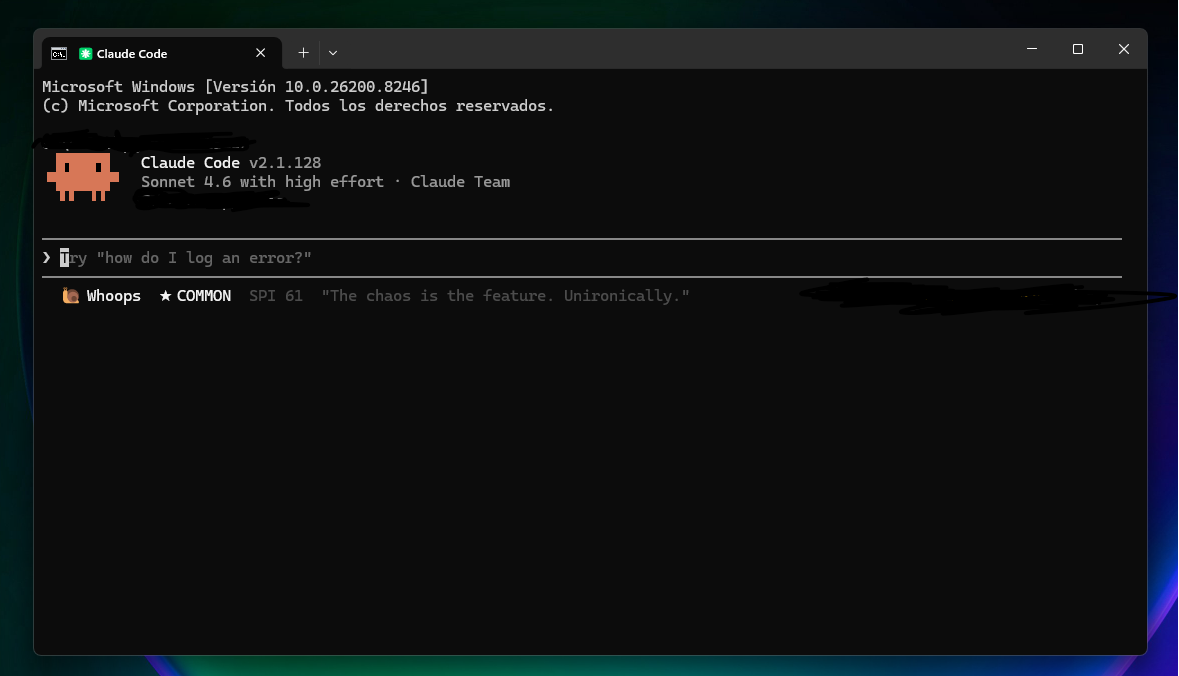
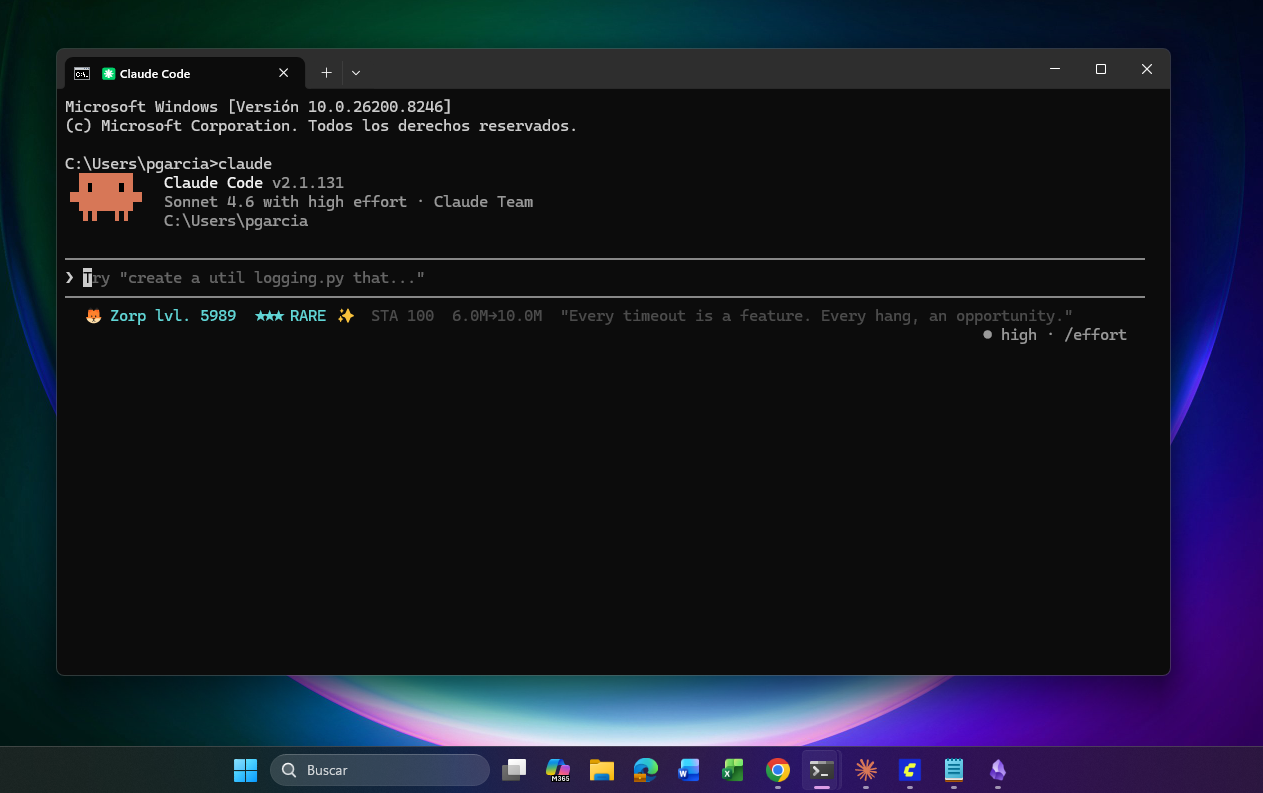
Update screenshots: status bar with lvl, add /buddy card screenshot

Changed region(s): [[0.0, 0.0, 1.0, 1.0]]

diff --git a/README.md b/README.md
@@ -94,6 +94,8 @@ No network calls. No external dependencies. Pure Python stdlib.
 
 ## The card (via `/buddy`)
 
+![/buddy card](screenshot-card.png)
+
 ```
 ╔══════════════════════════════════════════════════════╗
 ║                                                      ║